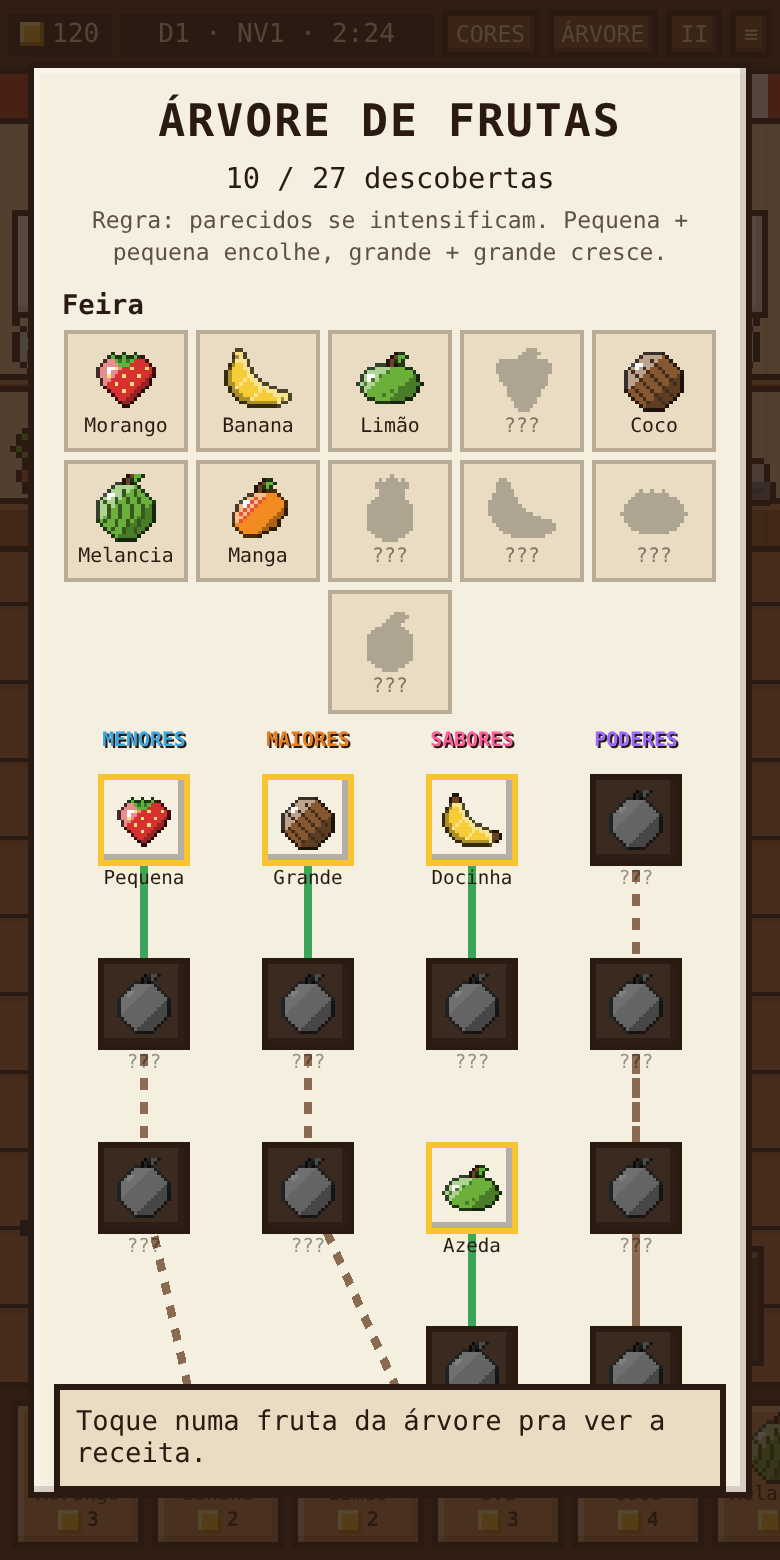
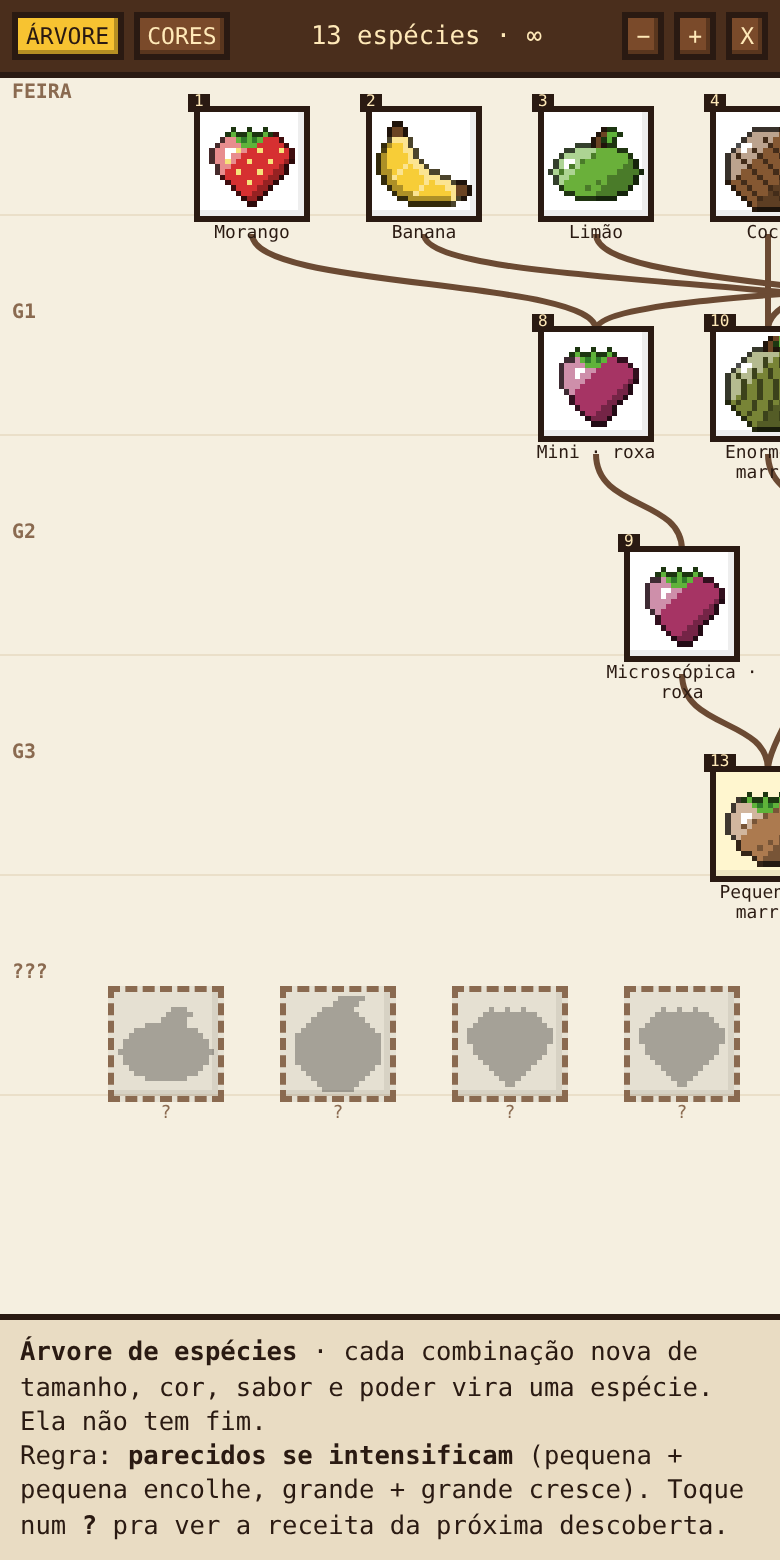
Árvore de espécies infinita e guia de cores na árvore
Claude-Session: https://claude.ai/code/session_01J5CqvyeRhN5feFo8ANcpcb

diff --git a/index.html b/index.html
@@ -104,6 +104,22 @@ header{flex:0 0 auto;display:flex;gap:4px;align-items:center;padding:5px 4px;bac
 .rcp span{display:inline-flex;align-items:center;gap:2px;white-space:nowrap}
 .rcp img{width:20px;height:20px}.mini-sw{width:10px;height:10px;border:2px solid #2a1a12;display:inline-block}
 .rq.cor{cursor:pointer;text-decoration:underline dotted}
+/* árvore de espécies (tela cheia) */
+#tv{position:fixed;inset:0;z-index:210;background:#f5efe0;display:none;flex-direction:column}#tv.on{display:flex}
+.tvh{flex:0 0 auto;display:flex;gap:5px;align-items:center;padding:6px;background:#4a2e1c;border-bottom:3px solid #2a1a12;color:#ffe9b8;font-size:.8rem}
+.tvh .btn.on{background:#f7c331;color:#2a1a12}.tvh .cnt{flex:1;text-align:center}
+#tvb{flex:1 1 auto;overflow:auto;position:relative;background:repeating-linear-gradient(0deg,#f5efe0 0 109px,#eadfc9 109px 110px)}
+#tvs{position:relative}#tvc{position:absolute;left:0;top:0;transform-origin:0 0}#tvc svg{position:absolute;left:0;top:0}
+.sp{position:absolute;width:76px;text-align:center;font-size:.56rem;line-height:1.1;cursor:pointer;color:#2a1a12}
+.sp .ic{width:58px;height:58px;margin:0 auto 2px;background:#fff;border:3px solid #2a1a12;display:flex;align-items:center;justify-content:center;box-shadow:inset -3px -3px 0 #0001}
+.sp .ic img{width:48px;height:48px}.sp .no{position:absolute;top:-6px;left:6px;background:#2a1a12;color:#ffe9b8;font-size:.5rem;padding:0 3px}
+.sp.q .ic{background:#00000010;border-style:dashed;border-color:#8a6a50}.sp.q .ic img{filter:brightness(0);opacity:.28}.sp.q{color:#8a6a50}
+.sp.cur .ic{outline:3px solid #f7c331;outline-offset:2px}.sp.new .ic{background:#fff6cf}
+.rowlab{position:absolute;left:6px;font-size:.62rem;color:#8a6a50;font-weight:700}
+#tvd{flex:0 0 auto;background:#e9dcc3;border-top:3px solid #2a1a12;padding:8px 10px;font-size:.8rem;max-height:40vh;overflow:auto;line-height:1.35}
+#tvd img{width:28px;height:28px;display:inline-block;vertical-align:middle}#tvd .bigi{width:56px;height:56px;float:left;margin-right:8px}
+.sug{display:flex;align-items:center;gap:3px;margin:3px 0;background:#f5efe0;padding:3px 5px;border:2px solid #2a1a1230;font-size:.74rem}
+#tvb .cgw{padding:10px;max-width:520px;margin:0 auto}
 /* modais */
 #modal{position:fixed;inset:0;background:#2a1a12cc;display:none;align-items:center;justify-content:center;z-index:200;padding:14px}
 #modal.on{display:flex}
@@ -124,11 +140,12 @@ header{flex:0 0 auto;display:flex;gap:4px;align-items:center;padding:5px 4px;bac
 .pt{position:fixed;width:6px;height:6px;z-index:120;pointer-events:none}
 .fc{position:fixed;width:12px;height:12px;z-index:120;pointer-events:none;background:#f7c331;box-shadow:inset -2px -2px 0 #b7841a,inset 2px 2px 0 #fff3a0}
 </style></head><body>
-<header><span class="tag" id="cointag"><span class="coin" id="hudcoin"></span><span id="coins"></span></span><span class="tag grow timer" id="day"></span><button class="btn" id="corb">CORES</button><button class="btn" id="dexb">ÁRVORE</button><button class="btn" id="pauseb">II</button><button class="btn" id="menub">≡</button></header>
+<header><span class="tag" id="cointag"><span class="coin" id="hudcoin"></span><span id="coins"></span></span><span class="tag grow timer" id="day"></span><button class="btn" id="dexb">ÁRVORE</button><button class="btn" id="pauseb">II</button><button class="btn" id="menub">≡</button></header>
 <div id="scene"><div id="props"></div><div id="custs"></div><div id="counter"></div><div id="cprops"></div></div>
 <div id="table"><div class="tip" id="tip">Compre frutas na feira.<br>Jogue 2 frutas no CALDEIRÃO: CRUZAR<br>Arraste até o cliente: ENTREGAR<br>Toque na fruta: VER ATRIBUTOS</div><div id="bin" class="px"><span class="coin" style="width:16px;height:16px;margin-bottom:3px"></span>Arraste<br>pra vender</div><div id="pot"><div id="potslots"></div><img id="potimg"><div id="potlab">CALDEIRÃO</div></div></div>
 <div id="market"></div>
 <div id="info" class="px"></div>
+<div id="tv"><div class="tvh"><button class="btn on" id="tabT">ÁRVORE</button><button class="btn" id="tabC">CORES</button><span class="cnt" id="tvcnt"></span><button class="btn" id="zm">−</button><button class="btn" id="zp">+</button><button class="btn" id="tvx">X</button></div><div id="tvb"></div><div id="tvd"></div></div>
 <div id="modal"><div class="box px" id="mbox"></div></div>
 <div class="toast" id="toast"></div>
 <script>
@@ -270,7 +287,7 @@ let S,running=false,modalOpen=false;const sk=k=>false;const dayLen=()=>150000+(s
 function level(){return 1+Math.floor(S.delivered/3)}
 const now=()=>S.clock;
 function baseFruit(b){const c=typeof b[4]=="string"?COLORS[b[4]].slice():b[4].slice();return{id:"f"+(S.id++),tip:b[0]=="Banana"?"#6b4423":b[0]=="Pimenta-Dragão"?"#3f9a3a":null,root:b[0].split(/[ -]/)[0],shape:b[1],pat:b[2],top:b[3],rgb:c,doce:b[5],az:b[6],tam:b[7],gen:0,mut:false,el:b[10]||null,hero:false,base:b[0]}}
-function fresh(){S={coins:25,delivered:0,id:1,fruits:[],pot:[],cust:[null,null,null],clock:0,day:1,dayT:0,ds:{earn:0,served:0,best:0,dex:0},dex:{},started:false,ess:0,sk:{}};
+function fresh(){S={coins:25,delivered:0,id:1,fruits:[],pot:[],cust:[null,null,null],clock:0,day:1,dayT:0,ds:{earn:0,served:0,best:0,dex:0},dex:{},tree:{},started:false,ess:0,sk:{}};
 [0,1,2,4,5,6].forEach((bi,i)=>{const f=baseFruit(BASE[bi]);f.x=14+(i%3)*104;f.y=12+Math.floor(i/3)*92;S.fruits.push(f)})}
 try{S=JSON.parse(localStorage.getItem("frutodromo9"))}catch(e){}if(!S||!S.fruits)fresh();
 const save=()=>{try{localStorage.setItem("frutodromo9",JSON.stringify(S))}catch(e){}};
@@ -288,18 +305,21 @@ return c}
 function fname(f){let n=(f.hero?"Super ":"")+f.root+(f.gen>=3?" "+["","","","Nobre","Rara","Ancestral","Lendária"][Math.min(6,f.gen)]:"");if(f.el)n+=" "+ELEM[f.el].adj;return n}
 const sizeName=t=>t==0?"Microscópica":t==1?"Mini":t<=3?"Pequena":t<=7?"Média":t<=10?"Grande":t==11?"Enorme":"Gigantesca";
 /* ================= Frutódex ================= */
-// Frutódex em árvore: [id, coluna, nível, nome, receita, teste, ligações]
-const DEXT=[
-["peq",0,0,"Pequena","Uva ou Morango",f=>f.tam>=2&&f.tam<=3,[]],["mini",0,1,"Mini","Pequena + Pequena",f=>f.tam==1,["peq"]],["micro",0,2,"Microscópica","Mini + Mini",f=>f.tam==0,["mini"]],
-["gra",1,0,"Grande","Melancia, Coco...",f=>f.tam>=8&&f.tam<=10,[]],["eno",1,1,"Enorme","Grande + Grande",f=>f.tam==11,["gra"]],["giga",1,2,"Gigantesca","Enorme + Enorme",f=>f.tam==12,["eno"]],
-["doce",2,0,"Docinha","Manga, Banana...",f=>f.doce>=8&&f.doce<10,[]],["mel",2,1,"Mel Puro","Docinha + Docinha",f=>f.doce==10,["doce"]],["azeda",2,2,"Azeda","Limão",f=>f.az>=8&&f.az<10,[]],["acida",2,3,"Azedíssima","Azeda + Azeda",f=>f.az==10,["azeda"]],
-["fogo",3,0,"Fogo","Pimenta-Dragão (feira)",f=>f.el=="fogo",[]],["gelo",3,1,"Gelo","Fruta Glacial (feira)",f=>f.el=="gelo",[]],["raio",3,2,"Raio","Carambola Elétrica (feira)",f=>f.el=="raio",[]],
-["super",3,3,"Super-fruta","Dois elementos diferentes",f=>f.hero,["fogo","gelo","raio"]],
-["smicro",.5,4,"Super Micro","Super + Microscópica",f=>f.hero&&f.tam==0,["micro","super"]],["stita",2,4,"Super Titã","Super + Gigantesca",f=>f.hero&&f.tam==12,["giga","super"]]];
-const DEXN=BASE.length+DEXT.length;
-function dexKeys(f){const k=[];if(f.base)k.push("b:"+f.base);DEXT.forEach(n=>{if(n[5](f))k.push(n[0])});return k}
-function dexCheck(f,silent){let nw=0;dexKeys(f).forEach(k=>{if(!S.dex[k]){S.dex[k]={shape:f.shape,mask:f.mask,tip:f.tip,pat:f.pat,top:f.top,rgb:f.rgb,hero:f.hero,cape:f.cape,name:fname(f),tam:f.tam,el:f.el};nw++}});
-if(nw&&!silent){S.ds.dex+=nw;setTimeout(()=>{toast(`<b>ÁRVORE</b>: +${nw} descoberta${nw>1?"s":""}!`);SFX.dex()},900)}}
+// ===== Árvore de espécies: infinita, cresce a cada combinação nova =====
+const taste=f=>f.doce>=6&&f.az>=6?"agridoce":f.doce>=8?"doce":f.az>=8?"azeda":"suave";
+const spKey=f=>[sizeName(f.tam),colorName(f.rgb),taste(f),f.el||"",f.hero?"S":""].join("|");
+function spLabel(k){const[sz,c,t,el,h]=k.split("|");return (h?"Super · ":"")+sz+" · "+c+" · "+t+(el?" · "+ELEM[el].n:"")}
+function treeAdd(f,parents,silent){S.tree=S.tree||{};const k=spKey(f);f.sp=k;if(S.tree[k])return false;
+const pk=parents?[...new Set(parents.map(p=>p.sp||spKey(p)))]:[];const d=pk.length?Math.max(...pk.map(x=>(S.tree[x]||{d:0}).d))+1:0;
+S.tree[k]={n:Object.keys(S.tree).length+1,name:f.base||fname(f),d,par:pk,t:Date.now(),img:{shape:f.shape,mask:f.mask,tip:f.tip,pat:f.pat,top:f.top,rgb:f.rgb,hero:f.hero,cape:f.cape},st:{doce:f.doce,az:f.az,tam:f.tam,rgb:f.rgb,el:f.el,hero:f.hero}};
+if(!silent){S.ds.dex++;const n=S.tree[k].n;setTimeout(()=>{toast(`<b>NOVA ESPÉCIE nº ${n}!</b><br>${spLabel(k)}`);SFX.dex()},900)}return true}
+const dexCheck=(f,silent)=>treeAdd(f,null,silent);
+function predictSt(a,b){const e=a.el&&b.el&&a.el!=b.el?{el:a.el,hero:true}:{el:a.el||b.el||null,hero:!!(a.hero||b.hero)};
+return{doce:inh(a.doce,b.doce,10),az:inh(a.az,b.az,10),tam:inh(a.tam,b.tam,12),rgb:a.rgb.map((x,q)=>(x+b.rgb[q])/2),el:e.el,hero:e.hero}}
+function suggestions(max,only){const ks=Object.keys(S.tree||{}),out=[],seen=new Set();
+for(let i=0;i<ks.length;i++)for(let j=i;j<ks.length;j++){if(only&&ks[i]!=only&&ks[j]!=only)continue;const c=predictSt(S.tree[ks[i]].st,S.tree[ks[j]].st),k=spKey(c);if(S.tree[k]||seen.has(k))continue;seen.add(k);
+out.push({k,a:ks[i],b:ks[j],c,score:Math.abs(c.tam-6)*1.5+(c.hero?5:0)+(c.el?1:0)+(c.doce==10||c.az==10?3:0)+((i*7+j*13)%10)/10})}
+return out.sort((x,y)=>y.score-x.score).slice(0,max)}
 /* ================= clientes ================= */
 function newCust(){const L=level(),vip=L>=(sk('t4')?2:3)&&Math.random()<(sk('t4')?.3:.15);let n=Math.min(3,1+Math.floor((L-1)/2)+(Math.random()<.3?1:0));if(vip)n=Math.min(4,n+1);
 const reqs=[],used=new Set(),hard=Math.min(3,Math.floor(L/2));
@@ -418,7 +438,7 @@ const make=()=>{let c=cross(ing[0],ing[1]);if(ing[2]){c=cross(c,ing[2]);c.gen=Ma
 const kids=[make()];if(sk("c2")&&Math.random()<.2)kids.push(make());
 kids.forEach((c,ki)=>{gainEss(1+(c.mut?2:0)+(c.hero?3:0));
 const tr=tbl.getBoundingClientRect(),pr=$("pot").getBoundingClientRect();c.x=pr.right-tr.left+8+ki*70;c.y=pr.top-tr.top-fsize(c)/3-ki*20;clampPos(c);
-S.fruits.push(c);sel=c.id;dexCheck(c);save();renderTable(c.id);renderPot();renderCounter();showInfo(c);
+S.fruits.push(c);sel=c.id;treeAdd(c,ing);save();renderTable(c.id);renderPot();renderCounter();showInfo(c);
 const er=tbl.querySelector(`[data-id="${c.id}"]`).getBoundingClientRect(),ex=er.left+er.width/2,ey=er.top+er.height/2;burst(ex,ey,c.rgb,24);
 if(c.mut||c.hero){burst(ex,ey,[180,155,255],18);SFX.mut()}else SFX.pop();if(c.el=="fogo")SFX.fire();
 toast((kids.length>1?"<b>GÊMEOS!</b> ":"")+(c.hero?`<b>SUPER-FRUTA!</b> ${fname(c)}`:c.mut?`<b>MUTAÇÃO!</b> ${fname(c)}`:`Nasceu: <b>${fname(c)}</b>`))})},sk("c1")?550:1100)}
@@ -450,7 +470,7 @@ function startDay(){running=true;S.started=true;S.cust.forEach((c,i)=>{if(!c)set
 function endDay(){running=false;SFX.day();S.cust.forEach(c=>{if(c)c.leaving=true});renderCounter();
 setTimeout(()=>{S.cust=[null,null,null];renderCounter();save();showSummary()},900)}
 function showSummary(){const d=S.ds;openModal(`<h2>FIM DO DIA ${S.day}</h2><div class="row">${[...S.fruits].sort((a,b)=>b.gen-a.gen).slice(0,3).map(f=>`<img src="${fruitImg(f)}">`).join("")}</div>
-<div class="sum"><span>Lucro do dia</span><b>${d.earn} moedas</b><span>Clientes atendidos</span><b>${d.served}</b><span>Maior pagamento</span><b>${d.best}</b><span>Novas no Frutódex</span><b>${d.dex}</b><span>Nível</span><b>${level()}</b></div>
+<div class="sum"><span>Lucro do dia</span><b>${d.earn} moedas</b><span>Clientes atendidos</span><b>${d.served}</b><span>Maior pagamento</span><b>${d.best}</b><span>Novas espécies</span><b>${d.dex}</b><span>Nível</span><b>${level()}</b></div>
 <p>${d.served>=6?"Dia incrível! A quitanda está famosa.":d.served>=3?"Bom dia de trabalho!":"Dia fraco... amanhã é outro dia!"}</p><button class="big" id="nextd">ABRIR DIA ${S.day+1}</button>`);
 $("nextd").onclick=()=>{S.day++;S.dayT=0;S.ds={earn:0,served:0,best:0,dex:0};save();closeModal();startDay()}}
 /* ================= modais ================= */
@@ -459,7 +479,7 @@ function closeModal(){modalOpen=false;$("modal").classList.remove("on")}
 function startScreen(){const demo=[{shape:"heart",pat:"seeds",top:"leaf",rgb:COLORS.vermelha},{shape:"round",pat:"stripes",top:"stem",rgb:[243,140,32],hero:true,cape:"#2d6cdf"},{shape:"tall",pat:"hatch",top:"crown",rgb:COLORS.amarela}];
 const cont=S.started;let armed=false;
 openModal(`<div class="logo">FRUTÓDROMO</div><p style="margin-top:0">A quitanda das frutas que a natureza não teve coragem de criar</p><div class="row">${demo.map(f=>`<img src="${fruitImg(f)}">`).join("")}</div>
-<p style="font-size:.8rem;text-align:left">• Jogue 2 frutas no <b>caldeirão</b> pra criar híbridos<br>• <b>Parecidos se intensificam</b>: pequena + pequena encolhe, grande + grande cresce, doce + doce fica mais doce<br>• Entregue o que os clientes pedem nos balões<br>• Complete a <b>Árvore de Frutas</b>: chegue na Microscópica, na Gigantesca e nas <b>super-frutas</b></p>
+<p style="font-size:.8rem;text-align:left">• Jogue 2 frutas no <b>caldeirão</b> pra criar híbridos<br>• <b>Parecidos se intensificam</b>: pequena + pequena encolhe, grande + grande cresce, doce + doce fica mais doce<br>• Entregue o que os clientes pedem nos balões<br>• Expanda a <b>Árvore de Espécies</b>: cada combinação nova vira uma espécie, e ela não tem fim</p>
 <button class="big" id="go">${cont?"CONTINUAR · DIA "+S.day:"ABRIR A QUITANDA"}</button><br><button class="big alt" id="sndb" onclick="toggleSnd()"></button>${cont?'<button class="big alt" id="newg">NOVO JOGO</button>':""}`);sndLabel();
 $("go").onclick=()=>{ac();closeModal();if(!running)startDay()};
 if(cont)$("newg").onclick=e=>{if(!armed){armed=true;e.target.textContent="TOQUE DE NOVO PRA APAGAR TUDO";return}fresh();S.fruits.forEach(f=>dexCheck(f,true));save();sel=null;showInfo(null);ac();closeModal();renderAll();startDay()}}
@@ -467,33 +487,50 @@ function gainEss(){}
 function predict(a,b){const e=elOut(a,b),t=inh(a.tam,b.tam,12);return `Doce ${inh(a.doce,b.doce,10)} · Azedo ${inh(a.az,b.az,10)} · ${sizeName(t)} (${t}) · cor ${colorName(a.rgb.map((x,i)=>(x+b.rgb[i])/2))}${e.el?" · "+ELEM[e.el].n:""}${e.hero?" · <b>SUPER!</b>":""}`}
 /* ================= guia de cores ================= */
 const CORDER=["vermelha","laranja","amarela","verde","azul","roxa","marrom","cinza","rosa","branca"];
-function colorGuide(hi){const L=level(),rep={};
+function colorGuideHTML(hi){const L=level(),rep={};
 BASE.forEach(b=>{const c=typeof b[4]=="string"?b[4]:colorName(b[4]);const cur=rep[c];if(!cur||(b[9]<cur[9]))rep[c]=b});
 const img=b=>`<img src="${fruitImg({shape:b[1],pat:b[2],top:b[3],rgb:COLORS[b[4]],tip:b[0]=="Banana"?"#6b4423":b[0]=="Pimenta-Dragão"?"#3f9a3a":null})}">`;
 const recipes={};const cols=Object.keys(rep);
 cols.forEach((a,i)=>cols.slice(i).forEach(b=>{const r=colorName(COLORS[a].map((x,k)=>(x+COLORS[b][k])/2));(recipes[r]=recipes[r]||[]).push([a,b])}));
-let h=`<h2>GUIA DE CORES</h2><p style="font-size:.8rem;margin-top:0">A cor do filho é a <b>mistura das cores dos pais</b>, como tinta. Híbridos podem ser misturados de novo pra chegar em outras cores.</p>`;
+const have=new Set(Object.keys(S.tree||{}).map(k=>k.split("|")[1]));let h=`<div class="cgw"><p style="font-size:.8rem;margin-top:0">A cor do filho é a <b>mistura das cores dos pais</b>, como tinta. Híbridos podem ser misturados de novo pra chegar em outras cores.</p>`;
 CORDER.forEach(c=>{const rs=(recipes[c]||[]).filter(([a,b])=>a!=b||rep[a]).sort((x,y)=>(x[0]==x[1])-(y[0]==y[1])).slice(0,4);
 const lock=b=>b[9]>L?` <i style="opacity:.6">(nível ${b[9]})</i>`:"";
 let body;if(MUT_ONLY.includes(c))body=`<div style="white-space:normal">Só por <b>mutação</b>: chance pequena ao cruzar qualquer fruta</div>`;
 else body=rs.map(([a,b])=>a==b?`<span>${img(rep[a])}${rep[a][0]}${lock(rep[a])}</span>`:`<span>${img(rep[a])}<span class="mini-sw" style="background:${hex(COLORS[a])}"></span>+${img(rep[b])}<span class="mini-sw" style="background:${hex(COLORS[b])}"></span>${lock(rep[a])}${lock(rep[b])}</span>`).join("")||"<span>—</span>";
-h+=`<div class="cg ${hi==c?"hi":""}" id="cg-${c}"><span class="big-sw" style="background:${hex(COLORS[c])}"></span><span class="nm2">${c.toUpperCase()}</span><div class="rcp">${body}</div></div>`});
-openModal(h+`<button class="big alt" id="cl">FECHAR</button>`);$("cl").onclick=closeModal;
-if(hi){const e=$("cg-"+hi);if(e)setTimeout(()=>e.scrollIntoView({block:"center"}),30)}}
-$("corb").onclick=()=>colorGuide(null);
-let dexSel=null;
-function dexScreen(){const got=Object.keys(S.dex).length,RH=92,top=22,H=top+5*RH-14,X=n=>(n[1]+.5)*100,Y=n=>top+n[2]*RH+24;
-const generic={shape:"round",pat:"none",top:"stem",rgb:[200,200,200]};
-let h=`<h2>ÁRVORE DE FRUTAS</h2><p style="margin:0">${got} / ${DEXN} descobertas</p><p style="font-size:.72rem;opacity:.75;margin:2px 0 6px">Regra: parecidos se intensificam. Pequena + pequena encolhe, grande + grande cresce.</p>
-<div class="dxh">Feira</div><div style="display:flex;flex-wrap:wrap;gap:4px;justify-content:center;margin:4px 0">${BASE.map(b=>{const e=S.dex["b:"+b[0]],f={shape:b[1],pat:b[2],top:b[3],rgb:typeof b[4]=="string"?COLORS[b[4]]:b[4]};return `<div class="dx ${e?"":"lk"}" style="width:62px"><img src="${fruitImg(f)}" style="width:34px;height:34px">${e?b[0].split(/[ -]/)[0]:"???"}</div>`}).join("")}</div>`;
-let lines="";DEXT.forEach(n=>n[6].forEach(r=>{const q=DEXT.find(x=>x[0]==r),ok=S.dex[r];lines+=`<line x1="${X(q)}" y1="${Y(q)}" x2="${X(n)}" y2="${Y(n)}" stroke="${ok?"#3ca55c":"#8a6a50"}" stroke-width="5" ${ok?"":'stroke-dasharray="6 6"'}/>`}));
-h+=`<div class="tree" style="height:${H}px"><svg viewBox="0 0 400 ${H}" preserveAspectRatio="none" style="height:${H}px" shape-rendering="crispEdges">${lines}</svg>`;
-[["MENORES","#3fa7e0"],["MAIORES","#e67e22"],["SABORES","#ff5f9e"],["PODERES","#9b6bff"]].forEach(([b,c],i)=>h+=`<span class="bl" style="left:${(i+.5)*25}%;color:${c};text-shadow:1px 1px 0 #2a1a12">${b}</span>`);
-DEXT.forEach(n=>{const e=S.dex[n[0]];h+=`<div class="nd ${e?"own":"lk"} ${dexSel==n[0]?"cur":""}" style="left:${(n[1]+.5)*25}%;top:${top+n[2]*RH}px" onclick="dexSel='${n[0]}';dexScreen()"><div class="ic" style="${e?"background:#f5efe0":""}"><img src="${fruitImg(e||generic)}"></div>${e?n[3]:"???"}</div>`});
-h+="</div>";const n=DEXT.find(x=>x[0]==dexSel);
-h+=n?`<div class="det"><b>${S.dex[n[0]]?n[3]:"??? ("+n[3]+")"}</b><br>Como conseguir: <b>${n[4]}</b>${S.dex[n[0]]?`<br><span style="opacity:.7">Sua primeira: ${S.dex[n[0]].name}</span>`:""}</div>`:`<div class="det">Toque numa fruta da árvore pra ver a receita.</div>`;
-openModal(h+`<button class="big alt" id="cl">FECHAR</button>`);$("cl").onclick=()=>{dexSel=null;closeModal()}}
-$("dexb").onclick=()=>{dexSel=null;dexScreen()};$("pauseb").onclick=()=>{if(!running)return;openModal(`<h2>PAUSADO</h2><p>O tempo e a paciência dos clientes estão congelados.</p><button class="big" id="resume">CONTINUAR</button><br><button class="big alt" id="sndb" onclick="toggleSnd()"></button>`);sndLabel();$("resume").onclick=closeModal};$("menub").onclick=startScreen;
+h+=`<div class="cg ${hi==c?"hi":""}" id="cg-${c}"><span class="big-sw" style="background:${hex(COLORS[c])}"></span><span class="nm2">${c.toUpperCase()}${have.has(c)?"<br><span style='font-size:.6rem;color:#3ca55c'>✔ já tem</span>":""}</span><div class="rcp">${body}</div></div>`});
+return h+"</div>"}
+function colorGuide(hi){openTree("cores",hi)}
+let tvTab="tree",tvSel=null,tvZoom=1;
+function openTree(tab,hi){tvTab=tab||"tree";modalOpen=true;$("tv").classList.add("on");renderTree(hi);if(tvTab=="tree")setTimeout(()=>{const b=$("tvb"),e=b.querySelector(".sp.new")||b.querySelector(".sp");if(e&&!hi){b.scrollLeft=Math.max(0,e.offsetLeft*tvZoom-b.clientWidth/2)}},30)}
+function closeTree(){$("tv").classList.remove("on");modalOpen=false;tvSel=null}
+function renderTree(hi){const T=S.tree||{},ks=Object.keys(T);$("tabT").classList.toggle("on",tvTab=="tree");$("tabC").classList.toggle("on",tvTab=="cores");
+$("tvcnt").textContent=`${ks.length} espécies · ∞`;$("zm").style.display=$("zp").style.display=tvTab=="tree"?"":"none";
+if(tvTab=="cores"){$("tvb").innerHTML=colorGuideHTML(hi);$("tvd").innerHTML="Toque no requisito de COR de um cliente pra abrir direto aqui.";if(hi){const e=$("cg-"+hi);if(e)setTimeout(()=>e.scrollIntoView({block:"center"}),30)}return}
+const rows={};ks.forEach(k=>{(rows[T[k].d]=rows[T[k].d]||[]).push(k)});Object.values(rows).forEach(r=>r.sort((a,b)=>T[a].n-T[b].n));
+const maxD=ks.length?Math.max(...ks.map(k=>T[k].d)):0,sug=suggestions(8);const qRow=maxD+1;
+const CW=86,RH=110,PADL=40;const widest=Math.max(4,...Object.values(rows).map(r=>r.length),sug.length);const Wd=PADL+widest*CW+20,H=(qRow+1)*RH+30;
+const pos={};for(let d=0;d<=maxD;d++){const r=rows[d]||[],off=PADL+(widest-r.length)*CW/2;r.forEach((k,i)=>pos[k]=[off+i*CW+CW/2,d*RH+14])}
+const qoff=PADL+(widest-sug.length)*CW/2;sug.forEach((q,i)=>pos["?"+i]=[qoff+i*CW+CW/2,qRow*RH+14]);
+const newest=ks.slice().sort((a,b)=>T[b].n-T[a].n)[0];
+let lines="";const ln=(a,b,dash,col)=>{const[x1,y1]=pos[a],[x2,y2]=pos[b];lines+=`<path d="M${x1} ${y1+64} C${x1} ${y1+92},${x2} ${y2-24},${x2} ${y2+2}" stroke="${col}" stroke-width="3" fill="none" ${dash?'stroke-dasharray="5 5"':""}/>`};
+ks.forEach(k=>T[k].par.forEach(p=>{if(pos[p])ln(p,k,false,tvSel&&(tvSel==k||tvSel==p)?"#e67e22":"#6b4a33")}));
+sug.forEach((q,i)=>{if(tvSel!="?"+i)return;ln(q.a,"?"+i,true,"#e67e22");if(q.b!=q.a)ln(q.b,"?"+i,true,"#e67e22")});
+let h=`<div id="tvs" style="width:${Wd*tvZoom}px;height:${H*tvZoom}px"><div id="tvc" style="width:${Wd}px;height:${H}px;transform:scale(${tvZoom})"><svg width="${Wd}" height="${H}">${lines}</svg>`;
+for(let d=0;d<=qRow;d++)h+=`<span class="rowlab" style="top:${d*RH+2}px">${d==0?"FEIRA":d==qRow?"???":"G"+d}</span>`;
+ks.forEach(k=>{const[x,y]=pos[k],t=T[k];h+=`<div class="sp ${tvSel==k?"cur":""} ${k==newest&&t.d>0?"new":""}" style="left:${x-38}px;top:${y}px" onclick="tvSel='${k.replace(/'/g,"")}';renderTree()"><span class="no">${t.n}</span><div class="ic"><img src="${fruitImg(t.img)}"></div>${t.d==0?t.name:spLabel(k).split(" · ").slice(0,2).join(" · ")}</div>`});
+sug.forEach((q,i)=>{const[x,y]=pos["?"+i],A=T[q.a];h+=`<div class="sp q ${tvSel=="?"+i?"cur":""}" style="left:${x-38}px;top:${y}px" onclick="tvSel='?${i}';renderTree()"><div class="ic"><img src="${fruitImg({...A.img,rgb:q.c.rgb,mask:A.img.mask,shape:A.img.shape})}"></div>?</div>`});
+$("tvb").innerHTML=h+"</div></div>";
+// painel de detalhe
+const nm=k=>T[k].d==0?T[k].name:spLabel(k),im=k=>`<img src="${fruitImg(T[k].img)}">`;let det;
+if(tvSel&&tvSel[0]=="?"){const q=sug[+tvSel.slice(1)];det=q?`<b>Espécie desconhecida</b><br>Receita provável: ${im(q.a)} <b>${nm(q.a)}</b> + ${im(q.b)} <b>${nm(q.b)}</b><br>Deve sair: <b>${spLabel(q.k)}</b>`:""}
+else if(tvSel&&T[tvSel]){const t=T[tvSel],my=suggestions(4,tvSel);
+det=`<img class="bigi" src="${fruitImg(t.img)}"><b>nº ${t.n} · ${t.d==0?t.name:"Geração "+t.d}</b><br>${spLabel(tvSel)}<br>${t.par.length?"Pais: "+t.par.map(p=>T[p]?im(p)+" "+nm(p):"?").join(" + "):"Fruta da feira"}<br>Primeira: ${t.name}<div style="clear:both"></div>
+${my.length?"<b>Experimente cruzar com:</b>"+my.map(q=>{const o=q.a==tvSel?q.b:q.a;return `<div class="sug">${im(tvSel)}+${im(o)} ${nm(o)} → <b>${spLabel(q.k)}</b></div>`}).join(""):"<i>Essa espécie já gerou tudo que dava com as que você tem. Descubra outras!</i>"}`}
+else det=`<b>Árvore de espécies</b> · cada combinação nova de tamanho, cor, sabor e poder vira uma espécie. Ela não tem fim.<br>Regra: <b>parecidos se intensificam</b> (pequena + pequena encolhe, grande + grande cresce). Toque num <b>?</b> pra ver a receita da próxima descoberta.`;
+$("tvd").innerHTML=det}
+$("tabT").onclick=()=>{tvTab="tree";renderTree()};$("tabC").onclick=()=>{tvTab="cores";renderTree()};$("tvx").onclick=closeTree;
+$("zm").onclick=()=>{tvZoom=Math.max(.4,tvZoom-.2);renderTree()};$("zp").onclick=()=>{tvZoom=Math.min(1.6,tvZoom+.2);renderTree()};
+$("dexb").onclick=()=>{tvSel=null;openTree("tree")};$("pauseb").onclick=()=>{if(!running)return;openModal(`<h2>PAUSADO</h2><p>O tempo e a paciência dos clientes estão congelados.</p><button class="big" id="resume">CONTINUAR</button><br><button class="big alt" id="sndb" onclick="toggleSnd()"></button>`);sndLabel();$("resume").onclick=closeModal};$("menub").onclick=startScreen;
 /* ================= laço ================= */
 let tt;function toast(h){const t=$("toast");t.innerHTML=h;t.classList.add("on");clearTimeout(tt);tt=setTimeout(()=>t.classList.remove("on"),2600)}
 function renderAll(n){hud();renderPot();renderCounter();renderTable(n);renderMarket()}
@@ -506,5 +543,5 @@ if((left<.2?"1":"0")!=el.dataset.low&&!document.querySelector(".fr.drag"))render
 if((saveT+=dt)>4000){saveT=0;save()}}hud()},250);
 window.addEventListener("resize",()=>{S.fruits.forEach(clampPos);renderTable();renderProps()});
 S.pot=S.pot||[];if(S.pot.length==2){S.fruits.push(...S.pot);S.pot=[]}
-S.ess=S.ess||0;S.sk=S.sk||{};S.fruits.forEach(f=>{clampPos(f);dexCheck(f,true)});renderProps();renderAll();startScreen();
+S.ess=S.ess||0;S.sk=S.sk||{};S.tree=S.tree||{};S.fruits.forEach(f=>{clampPos(f);treeAdd(f,null,true)});renderProps();renderAll();startScreen();
 </script></body></html>

diff --git a/README.md b/README.md
@@ -39,8 +39,8 @@ O formato do filho é uma **fusão dos contornos dos pais**, então cada linhage
 
 - 🎨 Pixel art gerada no código (frutas, clientes, cenário e caldeirão)
 - 🔥 Frutas de **Fogo**, **Gelo** e **Raio** com efeitos animados
-- 🌳 **Árvore de Frutas** (Frutódex) com a receita de cada descoberta
-- 🖌 **Guia de Cores** com as combinações possíveis
+- 🌳 **Árvore de Espécies** infinita: cada combinação nova vira uma espécie ligada aos pais, com sugestões das próximas descobertas
+- 🖌 **Guia de Cores** dentro da árvore, com as combinações possíveis
 - 👑 Clientes VIP, níveis e frutas raras que vão liberando
 - 🎵 Efeitos e música em chiptune (Web Audio)
 - ⏸ Pausa, e progresso salvo no navegador
